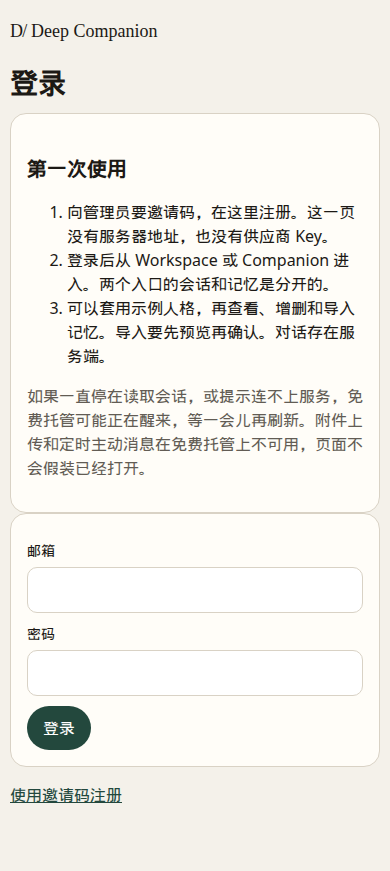
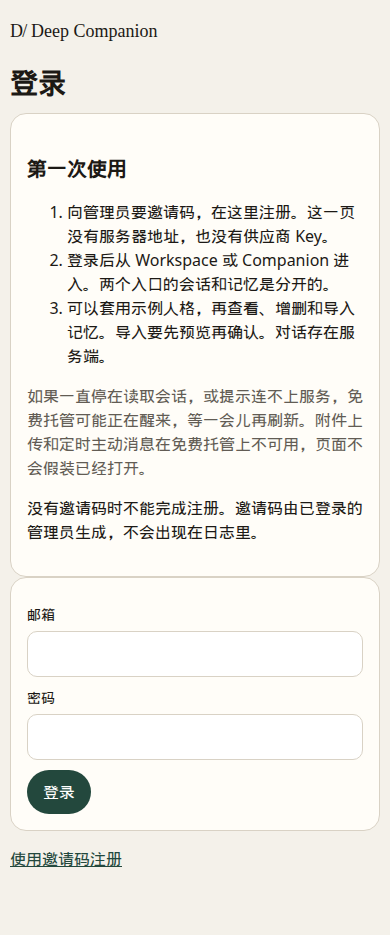
Create the first admin on startup and keep Render's build tools.
ADMIN_EMAIL and ADMIN_PASSWORD create one administrator only when none exists. The values stay out of logs, an existing admin is left unchanged, and POST /api/admin/init stays unavailable. Production installs include devDependencies so tsc and the React types are present for the build.

diff --git a/server/test/bootstrap.test.ts b/server/test/bootstrap.test.ts
@@ -1,0 +1,144 @@
+import assert from 'node:assert/strict'
+import { execFileSync } from 'node:child_process'
+import fs from 'node:fs'
+import http from 'node:http'
+import os from 'node:os'
+import path from 'node:path'
+import test from 'node:test'
+import { bootstrapAdmin } from '../src/auth.ts'
+import { loadConfig, type AppConfig } from '../src/config.ts'
+import { createApp } from '../src/create-app.ts'
+import { migrate, openDatabase, type SqlDb } from '../src/db.ts'
+import { createLogger } from '../src/log.ts'
+import { verifyPassword } from '../src/password.ts'
+
+const secretPassword = 'BootstrapSecretValue99'
+const secretEmail = 'bootstrap-secret-name@example.com'
+
+function configFor(options: { dir: string; databaseUrl?: string }): AppConfig {
+  return loadConfig(
+    { NODE_ENV: 'test' },
+    {
+      nodeEnv: 'test',
+      databaseUrl: options.databaseUrl ?? null,
+      databasePath: path.join(options.dir, 'app.sqlite'),
+      dataDir: options.dir,
+      gatewayMode: 'live',
+      deepseekApiKey: null,
+      host: '127.0.0.1',
+      port: 0,
+      initiativePollMs: 0,
+    }
+  )
+}
+
+async function openTemp(databaseUrl?: string) {
+  const dir = fs.mkdtempSync(path.join(os.tmpdir(), 'bootstrap-'))
+  const config = configFor({ dir, databaseUrl })
+  const db = openDatabase(config)
+  await migrate(db)
+  return { dir, config, db }
+}
+
+test('startup bootstrap creates one admin and does not log the credentials', async () => {
+  const { dir, config, db } = await openTemp()
+  try {
+    const idle = createLogger(() => {})
+    assert.equal(await bootstrapAdmin(db, config, undefined, undefined, idle), 'skipped')
+    assert.equal(await bootstrapAdmin(db, config, secretEmail, 'short', idle), 'rejected')
+    const users = await db.get<{ n: number }>(`SELECT COUNT(*) AS n FROM users`)
+    assert.equal(Number(users?.n ?? 0), 0)
+    const log = createLogger(() => {})
+    assert.equal(await bootstrapAdmin(db, config, secretEmail, secretPassword, log), 'created')
+    const text = log.lines.join('\n')
+    assert.equal(text.includes(secretPassword), false)
+    assert.equal(text.includes(secretEmail), false)
+    assert.match(text, /"result":"created"/)
+    const row = await db.get<{ password_hash: string; email: string }>(`SELECT email, password_hash FROM users WHERE role = 'admin'`)
+    assert.equal(row?.email, secretEmail)
+    assert.equal(await verifyPassword(secretPassword, row?.password_hash ?? ''), true)
+    const again = createLogger(() => {})
+    assert.equal(await bootstrapAdmin(db, config, 'other-admin@example.com', 'AnotherSecretValue99', again), 'exists')
+    const after = await db.get<{ n: number; password_hash: string }>(
+      `SELECT COUNT(*) AS n, MIN(password_hash) AS password_hash FROM users WHERE role = 'admin' AND deleted_at IS NULL`
+    )
+    assert.equal(Number(after?.n ?? 0), 1)
+    assert.equal(after?.password_hash, row?.password_hash)
+    assert.equal(again.lines.join('\n').includes('AnotherSecretValue99'), false)
+  } finally {
+    await db.close()
+    fs.rmSync(dir, { recursive: true, force: true })
+  }
+})
+
+test('concurrent bootstrap creates one admin', async () => {
+  const { dir, config, db } = await openTemp()
+  try {
+    const results = await Promise.all(
+      Array.from({ length: 6 }, () => bootstrapAdmin(db, config, secretEmail, secretPassword, createLogger(() => {})))
+    )
+    assert.equal(results.filter((item) => item === 'created').length, 1)
+    assert.equal(results.filter((item) => item === 'exists').length, 5)
+    const row = await db.get<{ n: number }>(`SELECT COUNT(*) AS n FROM users WHERE role = 'admin' AND deleted_at IS NULL`)
+    assert.equal(Number(row?.n ?? 0), 1)
+  } finally {
+    await db.close()
+    fs.rmSync(dir, { recursive: true, force: true })
+  }
+})
+
+test('health says registration is unavailable until an admin exists and init stays off HTTP', async () => {
+  const { dir, config, db } = await openTemp()
+  const log = createLogger(() => {})
+  const app = createApp({ db, config, log })
+  const server = http.createServer((req, res) => {
+    void app.listener(req, res)
+  })
+  await new Promise<void>((resolve) => server.listen(0, '127.0.0.1', () => resolve()))
+  const address = server.address()
+  if (!address || typeof address === 'string') throw new Error('listen failed')
+  try {
+    const before = await fetch(`http://127.0.0.1:${address.port}/api/health`)
+    assert.equal((await before.json()).registration, 'unavailable')
+    const denied = await fetch(`http://127.0.0.1:${address.port}/api/admin/init`, {
+      method: 'POST',
+      headers: { 'Content-Type': 'application/json', 'X-Companion-Request': '1' },
+      body: '{}',
+    })
+    assert.equal(denied.status, 404)
+    assert.equal(await bootstrapAdmin(db, config, secretEmail, secretPassword, log), 'created')
+    const after = await fetch(`http://127.0.0.1:${address.port}/api/health`)
+    const body = await after.json()
+    assert.equal(body.ok, true)
+    assert.equal(body.registration, 'needs_invite')
+    assert.equal(JSON.stringify(body).includes(secretEmail), false)
+    assert.equal(log.lines.join('\n').includes(secretPassword), false)
+  } finally {
+    await new Promise<void>((resolve) => server.close(() => resolve()))
+    await db.close()
+    fs.rmSync(dir, { recursive: true, force: true })
+  }
+})
+
+test('postgres bootstrap stays one admin under concurrency', async () => {
+  const name = `boot_${process.pid}_${Date.now().toString(36)}`
+  const adminUrl = 'postgresql://ubuntu@/postgres?host=/var/run/postgresql'
+  execFileSync('psql', [adminUrl, '-v', 'ON_ERROR_STOP=1', '-c', `CREATE DATABASE ${name}`], { stdio: 'pipe' })
+  const databaseUrl = `postgresql://ubuntu@/${name}?host=/var/run/postgresql`
+  let db: SqlDb | null = null
+  try {
+    const opened = await openTemp(databaseUrl)
+    db = opened.db
+    const results = await Promise.all(
+      Array.from({ length: 6 }, () => bootstrapAdmin(opened.db, opened.config, secretEmail, secretPassword, createLogger(() => {})))
+    )
+    assert.equal(results.filter((item) => item === 'created').length, 1)
+    const row = await opened.db.get<{ n: number }>(`SELECT COUNT(*) AS n FROM users WHERE role = 'admin' AND deleted_at IS NULL`)
+    assert.equal(Number(row?.n ?? 0), 1)
+    const output = results.join(',')
+    assert.equal(output.includes(secretPassword), false)
+  } finally {
+    if (db) await db.close()
+    execFileSync('psql', [adminUrl, '-v', 'ON_ERROR_STOP=1', '-c', `DROP DATABASE ${name} WITH (FORCE)`], { stdio: 'pipe' })
+  }
+})

diff --git a/server/src/auth.ts b/server/src/auth.ts
@@ -2,6 +2,7 @@ import { randomBytes } from 'node:crypto'
 import type { AppConfig } from './config.ts'
 import { isUniqueViolation, many, one, run, withTx, type SqlDb } from './db.ts'
 import { HttpError, newId, nowIso, sha256 } from './http.ts'
+import type { Logger } from './log.ts'
 import { assertPasswordPolicy, hashPassword, verifyPassword } from './password.ts'
 import type { InvitationRow, SessionRow, UserRow } from './types.ts'
 
@@ -48,6 +49,32 @@ export async function insertQuota(db: SqlDb, userId: string, config: AppConfig, 
   )
 }
 
+async function insertAdminIfMissing(db: SqlDb, config: AppConfig, user: UserRow, at: string): Promise<'created' | 'exists' | 'email_taken'> {
+  return withTx(db, async () => {
+    if (db.kind === 'postgres') await db.get('SELECT pg_advisory_xact_lock(814398)')
+    const existing = await one<{ id: string }>(db, `SELECT id FROM users WHERE role = 'admin' AND deleted_at IS NULL`)
+    if (existing) return 'exists'
+    try {
+      await run(
+        db,
+        `INSERT INTO users (id, email, password_hash, display_name, role, created_at, updated_at, last_seen_at, deleted_at)
+         VALUES (?, ?, ?, ?, 'admin', ?, ?, NULL, NULL)`,
+        user.id,
+        user.email,
+        user.password_hash,
+        user.display_name,
+        at,
+        at
+      )
+    } catch (error) {
+      if (isUniqueViolation(error)) return 'email_taken'
+      throw error
+    }
+    await insertQuota(db, user.id, config, at)
+    return 'created'
+  })
+}
+
 export async function initAdmin(db: SqlDb, config: AppConfig, email: string, password: string): Promise<UserRow> {
   const normalized = normalizeEmail(email)
   if (!EMAIL.test(normalized)) throw new HttpError(400, 'invalid_email', 'Invalid email')
@@ -56,14 +83,11 @@ export async function initAdmin(db: SqlDb, config: AppConfig, email: string, pas
   } catch {
     throw new HttpError(400, 'password_policy', 'Password must be 12-200 characters')
   }
-  const existing = await one<UserRow>(db, `SELECT * FROM users WHERE role = 'admin' AND deleted_at IS NULL`)
-  if (existing) throw new HttpError(409, 'admin_exists', 'An administrator already exists')
-  const passwordHash = await hashPassword(password)
   const at = nowIso()
   const user: UserRow = {
     id: newId(),
     email: normalized,
-    password_hash: passwordHash,
+    password_hash: await hashPassword(password),
     display_name: 'Administrator',
     role: 'admin',
     created_at: at,
@@ -71,21 +95,54 @@ export async function initAdmin(db: SqlDb, config: AppConfig, email: string, pas
     last_seen_at: null,
     deleted_at: null,
   }
-  await withTx(db, async () => {
-    await run(
-      db,
-      `INSERT INTO users (id, email, password_hash, display_name, role, created_at, updated_at, last_seen_at, deleted_at)
-       VALUES (?, ?, ?, ?, 'admin', ?, ?, NULL, NULL)`,
-      user.id,
-      user.email,
-      user.password_hash,
-      user.display_name,
-      at,
-      at
-    )
-    await insertQuota(db, user.id, config, at)
-  })
+  const outcome = await insertAdminIfMissing(db, config, user, at)
+  if (outcome === 'exists') throw new HttpError(409, 'admin_exists', 'An administrator already exists')
+  if (outcome === 'email_taken') throw new HttpError(409, 'email_taken', 'Email is already registered')
   return user
+}
+
+export async function bootstrapAdmin(
+  db: SqlDb,
+  config: AppConfig,
+  email: string | undefined,
+  password: string | undefined,
+  log: Logger
+): Promise<'skipped' | 'created' | 'exists' | 'rejected'> {
+  const trimmedEmail = email?.trim() ?? ''
+  const suppliedPassword = password ?? ''
+  if (!trimmedEmail && !suppliedPassword) {
+    log.info('admin_bootstrap', { result: 'skipped' })
+    return 'skipped'
+  }
+  if (!trimmedEmail || !suppliedPassword || !EMAIL.test(normalizeEmail(trimmedEmail))) {
+    log.error('admin_bootstrap', { result: 'rejected', reason: 'invalid_env' })
+    return 'rejected'
+  }
+  try {
+    assertPasswordPolicy(suppliedPassword)
+  } catch {
+    log.error('admin_bootstrap', { result: 'rejected', reason: 'password_policy' })
+    return 'rejected'
+  }
+  const at = nowIso()
+  const user: UserRow = {
+    id: newId(),
+    email: normalizeEmail(trimmedEmail),
+    password_hash: await hashPassword(suppliedPassword),
+    display_name: 'Administrator',
+    role: 'admin',
+    created_at: at,
+    updated_at: at,
+    last_seen_at: null,
+    deleted_at: null,
+  }
+  const outcome = await insertAdminIfMissing(db, config, user, at)
+  if (outcome === 'email_taken') {
+    log.error('admin_bootstrap', { result: 'rejected', reason: 'email_taken' })
+    return 'rejected'
+  }
+  log.info('admin_bootstrap', { result: outcome })
+  return outcome
 }
 
 export async function createInvitations(

diff --git a/web/src/pages/Auth.tsx b/web/src/pages/Auth.tsx
@@ -1,4 +1,4 @@
-import { useState, type FormEvent } from 'react'
+import { useEffect, useState, type FormEvent } from 'react'
 import { Link, useNavigate } from 'react-router-dom'
 import { ApiError, api, type User } from '../api.ts'
 import { useSession } from '../session.tsx'
@@ -11,6 +11,13 @@ export function AuthPages({ mode }: { mode: 'login' | 'register' }) {
   const [invitationCode, setInvitationCode] = useState('')
   const [displayName, setDisplayName] = useState('')
   const [error, setError] = useState('')
+  const [registration, setRegistration] = useState<'unknown' | 'unavailable' | 'needs_invite'>('unknown')
+
+  useEffect(() => {
+    void api<{ registration?: string }>('/api/health')
+      .then((data) => setRegistration(data.registration === 'needs_invite' ? 'needs_invite' : 'unavailable'))
+      .catch(() => setRegistration('unknown'))
+  }, [])
 
   async function submit(event: FormEvent) {
     event.preventDefault()
@@ -38,6 +45,11 @@ export function AuthPages({ mode }: { mode: 'login' | 'register' }) {
           <li>可以套用示例人格，再查看、增删和导入记忆。导入要先预览再确认。对话存在服务端。</li>
         </ol>
         <p className="muted" data-testid="sleep-note">如果一直停在读取会话，或提示连不上服务，免费托管可能正在醒来，等一会儿再刷新。附件上传和定时主动消息在免费托管上不可用，页面不会假装已经打开。</p>
+        <p data-testid="registration-state">
+          {registration === 'unavailable'
+            ? '管理员还没有初始化，注册现在不可用。'
+            : '没有邀请码时不能完成注册。邀请码由已登录的管理员生成，不会出现在日志里。'}
+        </p>
       </section>
       <form className="panel" onSubmit={(event) => void submit(event)}>
         {error ? <p className="error" data-testid="auth-error">{error}</p> : null}
@@ -49,7 +61,7 @@ export function AuthPages({ mode }: { mode: 'login' | 'register' }) {
             <label>显示名<input value={displayName} onChange={(event) => setDisplayName(event.target.value)} /></label>
           </>
         ) : null}
-        <button className="primary" type="submit">{mode === 'login' ? '登录' : '注册'}</button>
+        <button className="primary" type="submit" disabled={mode === 'register' && registration !== 'needs_invite'}>{mode === 'login' ? '登录' : '注册'}</button>
       </form>
       <p>{mode === 'login' ? <Link to="/register">使用邀请码注册</Link> : <Link to="/login">已有账号，去登录</Link>}</p>
     </main>

diff --git a/server/src/create-app.ts b/server/src/create-app.ts
@@ -333,7 +333,8 @@ export function createApp(deps: { db: SqlDb; config: AppConfig; log: Logger }) {
   const add = (method: string, pathname: string, handler: Route['handler']) => routes.push(route(method, pathname, handler))
 
   add('GET', '/api/health', async (ctx) => {
-    json(ctx.res, 200, { ok: true })
+    const admin = await one<{ id: string }>(ctx.db, `SELECT id FROM users WHERE role = 'admin' AND deleted_at IS NULL`)
+    json(ctx.res, 200, { ok: true, registration: admin ? 'needs_invite' : 'unavailable' })
   })
 
   add('GET', '/api/gateway', async (ctx) => {
@@ -369,7 +370,7 @@ export function createApp(deps: { db: SqlDb; config: AppConfig; log: Logger }) {
   })
 
   add('POST', '/api/admin/init', async () => {
-    throw new HttpError(404, 'not_found', 'Create the first administrator with the local CLI, not over HTTP')
+    throw new HttpError(404, 'not_found', 'The first administrator is created from server environment on startup, not over HTTP')
   })
 
   add('POST', '/api/register', async (ctx) => {

diff --git a/e2e/mobile.ts b/e2e/mobile.ts
@@ -92,6 +92,8 @@ try {
   await page.goto(`${baseUrl}/login`)
   await page.getByTestId('first-run').waitFor()
   const guide = await page.getByTestId('first-run').innerText()
+  const registration = await page.getByTestId('registration-state').innerText()
+  if (!registration.includes('没有邀请码')) throw new Error(`registration copy missing invite requirement: ${registration}`)
   if (!guide.includes('邀请码') || !guide.includes('Workspace') || !guide.includes('没有供应商 Key')) {
     throw new Error(`first-run guide missing product steps: ${guide}`)
   }

diff --git a/server/src/index.ts b/server/src/index.ts
@@ -1,4 +1,5 @@
 import http from 'node:http'
+import { bootstrapAdmin } from './auth.ts'
 import { loadConfig } from './config.ts'
 import { createApp } from './create-app.ts'
 import { migrate, openDatabase } from './db.ts'
@@ -9,6 +10,7 @@ const config = loadConfig()
 const db = openDatabase(config)
 await migrate(db)
 const log = createLogger()
+await bootstrapAdmin(db, config, process.env.ADMIN_EMAIL, process.env.ADMIN_PASSWORD, log)
 const app = createApp({ db, config, log })
 const server = http.createServer((req, res) => {
   void app.listener(req, res)

diff --git a/server/test/postgres.test.ts b/server/test/postgres.test.ts
@@ -121,6 +121,7 @@ test('postgres schema, isolation, limits, disabled uploads, and restart persiste
   const health = await api(baseUrl, 'GET', '/api/health')
   assert.equal(health.status, 200)
   assert.equal(health.json.ok, true)
+  assert.equal(health.json.registration, 'needs_invite')
   const foreign = await api(baseUrl, 'POST', '/api/login', {
     body: { email: 'admin@example.com', password: 'AdminPassw0rd!123' },
     headers: { Origin: 'https://evil.example' },

diff --git a/docs/DEPLOY.md b/docs/DEPLOY.md
@@ -1,6 +1,6 @@
-# 免费部署准备
+# 免费部署
 
-这是 Render 免费 Web 服务加上外部 Postgres 的准备，不是已经上线的网站。仓库里没有公网地址，也没有创建 Render 或 Neon 资源。
+`https://deep-companion.onrender.com` 是父助手部署的 `d14fb5c`。本补丁还没有部署上去。这个代理不自行部署，也不读取生产密钥或连接串。
 
 ## 运行形态
 
@@ -8,7 +8,11 @@
 - 本机不设置 `DATABASE_URL` 时仍使用 SQLite，手测路径不变。
 - `COOKIE_SECURE` 在生产默认开启。`HOST` 默认 `0.0.0.0`，端口用平台的 `PORT`。
 - 页面和 `/api` 由同一个 Node 进程提供。反向代理终止 HTTPS。请求里如果带了 `Origin`，主机必须和 `Host` 一致，不会信任任意来源。
-- 没有公开的管理员初始化接口。第一次管理员仍用 `npm run admin:init`，邀请码用 `npm run admin:invite`。
+- 没有公开的管理员初始化接口。`POST /api/admin/init` 保持 404。
+- Render 没有 SSH 时，在服务端环境设置 `ADMIN_EMAIL` 和 `ADMIN_PASSWORD`（12–200 字符，没有默认口令）。进程启动时只在还没有管理员时创建一次。已有管理员不会被覆盖，邮箱和密码不会写入日志。创建成功后可以从环境里删掉这两个变量。
+- 邀请码不由启动过程打印。管理员用自己的邮箱和密码打开站点并登录，在「管理」里生成邀请码，页面只显示一次。有 shell 的机器仍可用 `npm run admin:init` 和 `npm run admin:invite`。
+- `GET /api/health` 在没有管理员时返回 `registration: unavailable`。注册页这时明确写注册不可用，不会假装已经能注册。
+- 构建使用 `npm ci --include=dev`，并设置 `NPM_CONFIG_PRODUCTION=false`。`NODE_ENV=production` 否则会让 `npm ci` 丢掉 `typescript` 和 `@types/react`。
 - `DATABASE_URL` 和 `DEEPSEEK_API_KEY` 只放服务端环境。日志会把连接串和 `sk-` 打成 `[redacted]`。
 
 ## 免费档明确不做的事
@@ -25,7 +29,7 @@
 
 ## 还没发生的事
 
-- 没有把这个服务部署到 Render。
-- 没有 Neon 连接串，也没有导入任何现有数据库。
-- 没有供应商 Key，真实模型请求没有通过。夹具回复以 `fixture-reply:` 开头，不能当成 DeepSeek。
+- 本补丁还没有部署。Render 的自动部署是关的，开通要由父助手设置环境变量后手动部署。
+- 没有管理员时注册不可用。本代理没有收到生产口令，也没有替线上创建账号。
+- 没有供应商 Key 时，真实模型请求没有通过。夹具回复以 `fixture-reply:` 开头，不能当成 DeepSeek。
 - 没有在手机或模拟器上安装运行。
